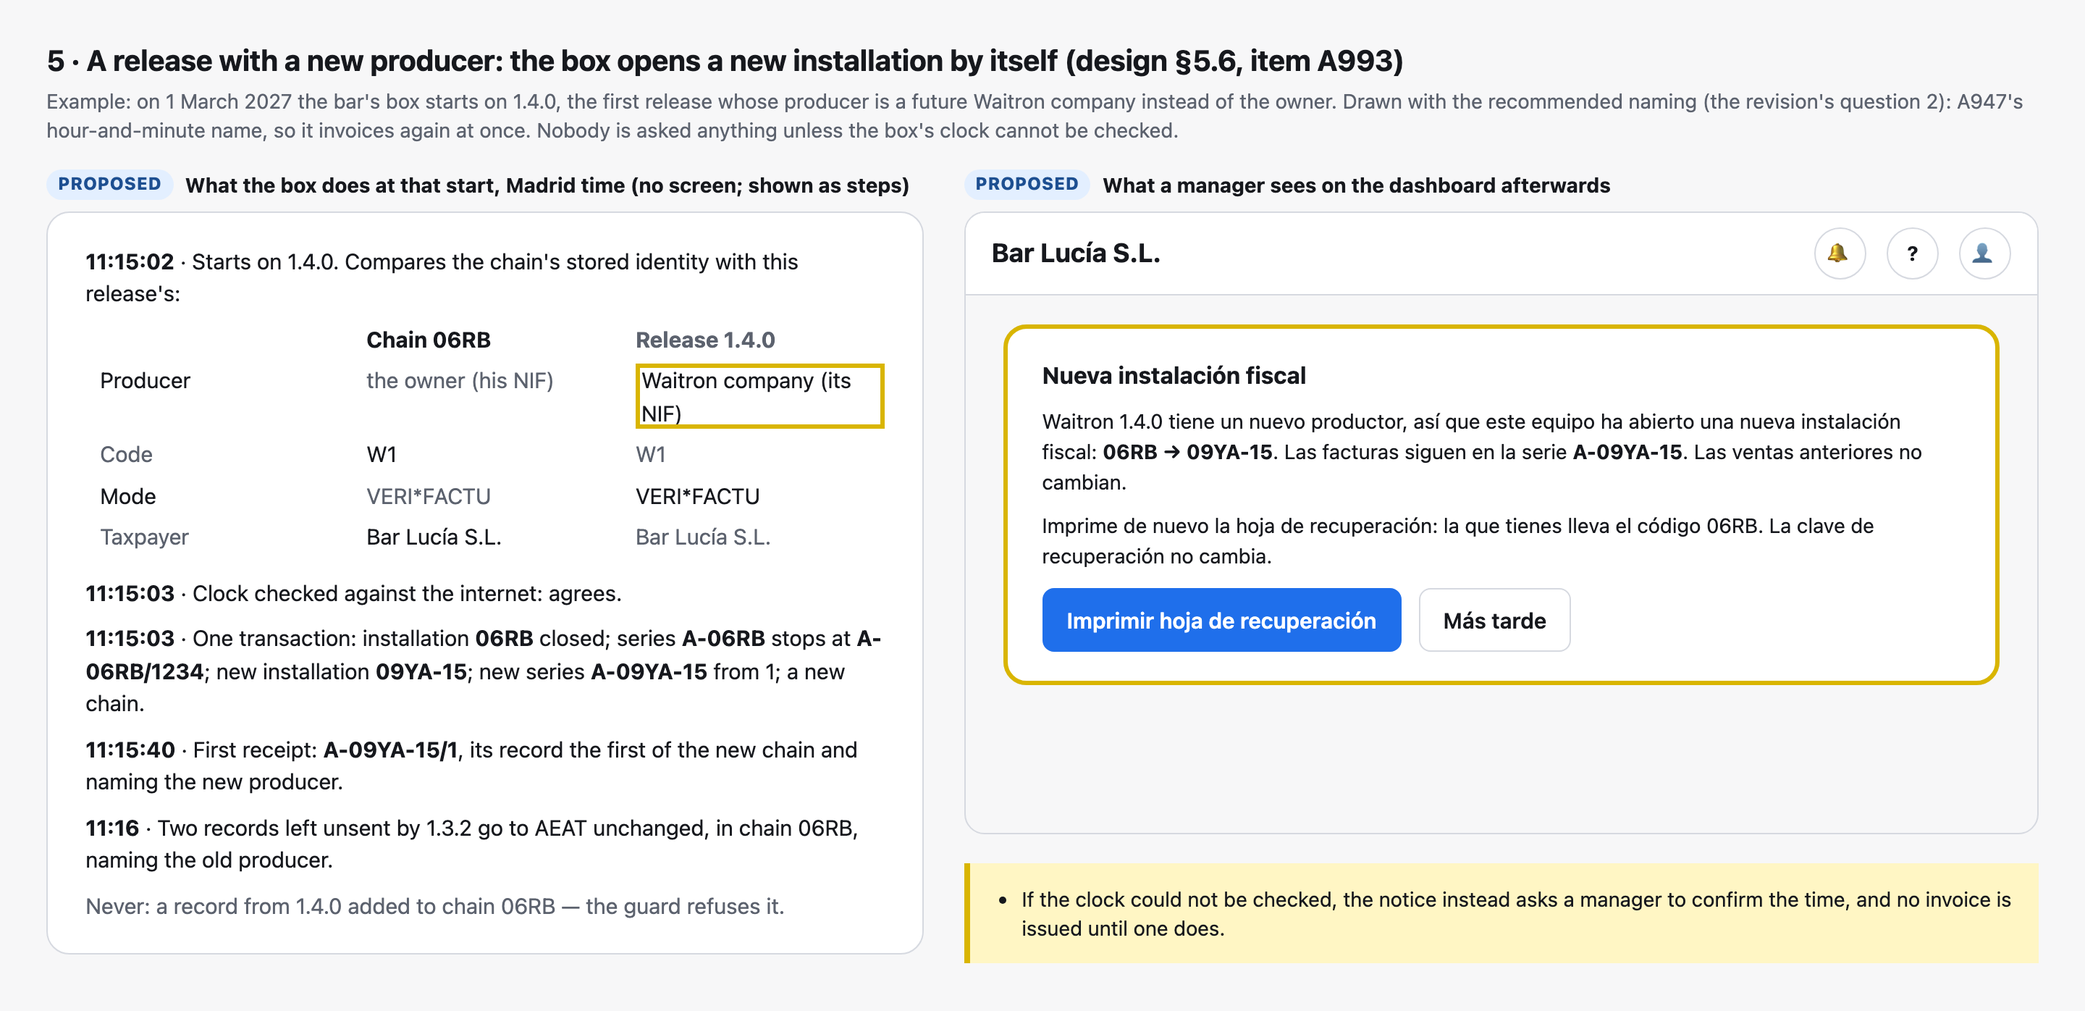
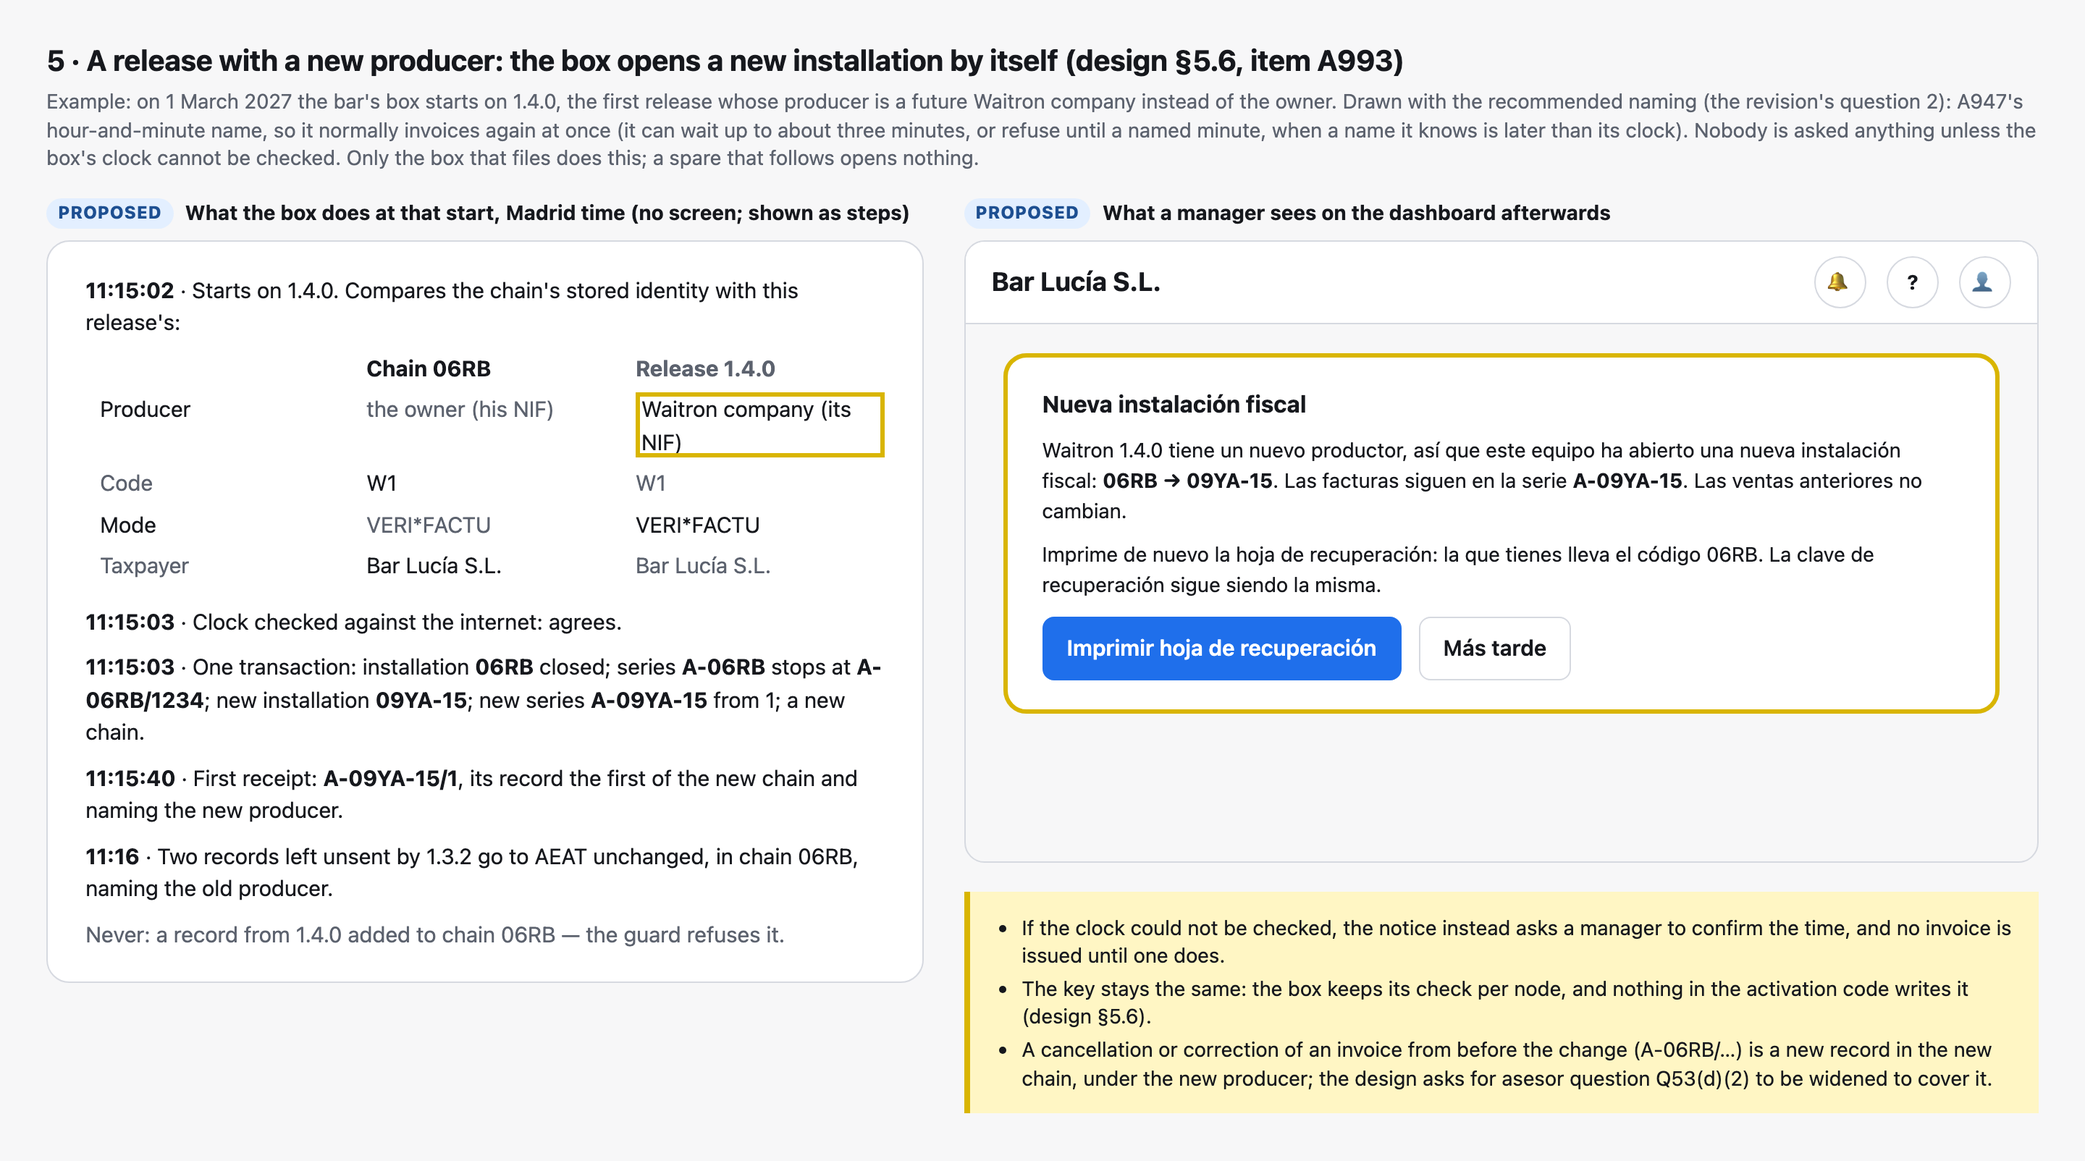
docs: A940/A993 — fix the review's seven findings
- 5.6 names the new identity-change activation: today hour activations
  need a signed-in person's operation (allocation-envelope.ts:299-304,
  :432) and the four-symbol form (:448), so A993 adds an action whose
  authority only the start step can create, with refusing tests for
  every other caller, and amends CLAUDE.md section 5's 'does not mint
  an installation number' sentence in the same change.
- Corrections of invoices issued before an identity change join the
  new chain under the new producer; the design quotes the developer
  FAQ (page 20) and asks for Q53(d)(2) to be widened, no new question.
- The start step runs only on the filing node (singleton-pass.ts:4-15,
  boot.ts:2518-2519); a following spare opens nothing; the 'one at a
  time' rule is about the main boxes of different venues.
- A947's naming can wait up to about three minutes or refuse; said in
  the design, picture 5 and question.txt.
- The recovery key staying the same is traced: its verifier is kept
  per node and no activation file writes it (grep receipts in 5.6).
- Six drifted code citations re-found; the developer FAQ's page 9
  sentence on changing the way of invoicing is cited for the mode.

diff --git a/docs/superpowers/specs/2026-10-21-a940-declaracion-responsable-design.md b/docs/superpowers/specs/2026-10-21-a940-declaracion-responsable-design.md
@@ -39,6 +39,11 @@ identity change (§5.6).
 >   from §4 and §5.4.
 > - **Q4: production boxes run releases only**, as designed in §5.1. No change.
 > - **§10 build order** gains A993; **§11** records the answers; **§12** gains three open points.
+> - **Review fixes, same day:** §5.6 now names the new `identity-change` activation and its
+>   person-less authority, the CLAUDE.md §5 sentence it amends, what happens to corrections of
+>   invoices issued before the change (and the widening it asks of Q53(d)(2)), that only the filing
+>   node runs the step, and A947's possible wait or refusal; the recovery key's sameness is traced;
+>   six drifted code citations in §3, §4, §5.3 and §6 are re-found.
 
 ---
 
@@ -270,7 +275,8 @@ mounted ahead of every mode's gates (`apps/server/src/boot.ts:984-1003`), so it 
 mode and in trading mode. The till has a sheet that shows a box page over the screen
 (`apps/till/src/widgets/guide-sheet.ts`). `packages/fiscal-verifactu` already draws PDFs
 (`pdfkit`, `pdf-lib`, its own font). CI already publishes an image tagged with the version when a
-`v*` tag is pushed (`.github/workflows/ci.yml:2758-2760`).
+`v*` tag is pushed (`.github/workflows/ci.yml:37` triggers on `v*` tags; `:2772` adds the
+version tag).
 
 ## 4. The declaration's text
 
@@ -420,7 +426,7 @@ directed d); the revision asks him to approve the whole.
 - **The functions list is filled in per release and checked route by route.** On main on
   2026-10-21: simplified invoices (F2) are issued; corrective invoices are reached through
   `apps/server/src/cancel-credit.ts`; every full-invoice request is refused
-  (`apps/server/src/till-sale.ts:516`, `apps/server/src/working-order.ts:4180-4191`); and no
+  (`apps/server/src/till-sale.ts:517`, `apps/server/src/working-order.ts:4050-4061`); and no
   route records a cancellation or a substitute invoice (`docs/backlog.md`, fiscal area: "No till screen or
   server route calls `recordVoid` yet", and "no route calls `recordSubstitution`"). So full and
   substitute invoices and cancellations are not listed. A release that turns one on lists it. A
@@ -499,7 +505,7 @@ English.
 - **The rendered copies** — HTML, PDF and plain text — are made once, in the image build, by a
   renderer in `fiscal-verifactu`, and land at a fixed path in the image, `/app/declaration/`,
   beside `/app/third-party/`. The box serves them as opaque files, so `apps/server` never imports
-  `@waitron/fiscal-verifactu` (the composition rule at `packages/composition/src/modules.ts:107-112`).
+  `@waitron/fiscal-verifactu` (the composition rule at `packages/composition/src/modules.ts:121-127`).
   The release job copies the same files out of the published image onto the GitHub Release, so
   the box's PDF and the archive's PDF are the same bytes.
 
@@ -541,8 +547,9 @@ spare box on site) are kept only when the release can do them; d) still describe
 ours the version can call in production (none today; a release that adds one changes d) and has
 the wording checked again); AEAT's FAQ and worked example are re-read for changes; and the
 repository is still public (§7.1). A release that changes the producer or the two-character code
-says so in the runbook's first line: every box opens a new installation at its first start on it
-(§5.6), and the boxes of one taxpayer are upgraded one at a time.
+says so in the runbook's first line: every filing box opens a new installation at its first start
+on it (§5.6), the main boxes of one taxpayer's venues are upgraded one at a time, and each venue's
+spare in the same visit as its main box.
 
 ### 5.5 How a box runs a release
 
@@ -566,7 +573,7 @@ not a new system (developer FAQ §4, p. 9). So the identity a chain is opened un
 | --- | --- | --- |
 | The producer's NIF (or foreign identifier, its type and country) | The running release's `software-identity.ts` (§5.2) | The producer changes, e.g. the owner to a future Waitron company |
 | The two-character code | The same file | Waitron ships a different product |
-| The compliance mode («VERI\*FACTU» today, the only one) | The enabled fiscal module | A venue moves between fiscal policies (the owner, Q2: a new installation) |
+| The compliance mode («VERI\*FACTU» today, the only one) | The enabled fiscal module | A venue moves between fiscal policies (the owner, Q2: a new installation; developer FAQ §3, p. 9: «cuando se produce un cambio de la implementación de la forma de facturar del SIF, realmente se ha cambiado de SIF») |
 | The taxpayer's NIF | The `tenants` row | Never, through the product (below) |
 
 The version is deliberately not in the list.
@@ -579,16 +586,25 @@ box's previous row (`allocation.ts:77-88` today). That is a migration on a fisca
 go-live no data is carried forward (CLAUDE.md §3, the no-backwards-compatibility rule), and a row
 opened before A993, with nothing stored, counts as different from any running identity.
 
-**What every start does**, before the box trades, inside the fiscal module:
+**What every start does**, before the box trades, inside the fiscal module — **only on the node
+that files.** Today filing runs only while a node's role is primary: the drain runs behind
+`singletonPass` (`apps/server/src/boot.ts:2518-2519`), which runs the pass only when
+`node_roles.singleton_role` is `primary` and gives any other node an empty pass
+(`apps/server/src/singleton-pass.ts:4-15`). The start-time step takes the same gate. A
+following spare (A947) that starts on a new release opens nothing and changes nothing: the gate
+keeps it out, it is held dormant with no series of its own until promotion (A947 §2,
+`packages/fiscal-verifactu/src/hour-dormant-standby.ts`), and the main box's rows it follows are
+not its to change. When it is promoted, its activation writes the running release's identity.
 
 - **Same producer, code and mode:** nothing. A679's rule that an ordinary update allocates nothing
   ([A679 design](2026-10-16-a679-hour-coded-series-design.md), "Restore, restart and first Live")
   still holds for every update that keeps the identity.
 - **A different producer or code, or nothing stored:** the box opens a new installation itself, in
-  one transaction, through the activation every other path uses
+  one transaction. The final writes are the ones every activation makes
   (`packages/fiscal-verifactu/src/allocation.ts:432-461`): the old SIF row is revoked; the node's
   chain head is emptied, so the next record is the first of a new chain («PrimerRegistro» = S); the
-  old invoice series are retired and new ones start at 1. The old chain is closed, never
+  old invoice series are retired and new ones start at 1. Getting there is new work (next
+  paragraph). The old chain is closed, never
   rewritten: records already made on it keep the identity they were made under and are sent
   unchanged (W41s's rule, "Retry the original stored fiscal content",
   [W41s design](2026-10-04-fiscal-prevention-and-offline-recovery-design.md) §4), so a backlog the
@@ -607,6 +623,53 @@ opened before A993, with nothing stored, counts as different from any running id
   was changed outside the product. The box opens nothing and refuses to trade, naming the cause on
   the recovery page (proposed code `sif.taxpayer_changed`). **Decision, the conservative one:** a
   person finds out why before anything is filed.
+
+**A new activation action, and why it is the only door without a person.** Today an hour-named
+activation is accepted only through an operation a signed-in person makes: the fiscal module's
+admission refuses `reauthentication_required` unless the operation carries an operator and its
+action is one of `setup`, `restore`, `re-register` or `promote`
+(`packages/fiscal-verifactu/src/allocation-envelope.ts:299-304`), refuses again when the held
+operation has no operator (`:432`), and requires the four-symbol hour form, the code being exactly
+`encodeHourIdentity` of the issue time (`:448`). A993 therefore needs three things, all in its
+slice:
+
+1. **A new action, `identity-change`**, beside the four.
+2. **An authority with no person in it**, which only the start-time step can create, and only when
+   the live SIF row's stored identity differs from the running release's (or has nothing stored).
+   It is made inside the step's own transaction, bound to the node, the old SIF row's id and the
+   running release's version, and used once. No route, operation host, recovery path or tool can
+   ask for one: every other caller that offers `identity-change` is refused, and so is the step
+   itself when the identities match. Each refusing case is proven by deletion (delete the check that
+   the identities differ, or the check that the caller is the start-time step, and its case must
+   fail), beside the case that must still pass: a start under a changed identity activates.
+3. **The new name form** (the naming choice below; with the recommended one, A947's slice 4a teaches
+   the admission the hour-and-minute form).
+
+CLAUDE.md §5 says, in its re-registration rule, "the box does not mint an installation number from
+its clock or a counter". That sentence stops being true, so the same A993 change amends it, to read:
+"…the box does not mint an installation number from its clock or a counter, except at a start that
+finds the running release's identity differs from its chain's (A993), which no person and no other
+caller can trigger." That edit is part of the fiscal pull request the owner reviews.
+
+**What happens to an invoice issued under the old identity.** Its records already made go out
+unchanged, under the old installation and producer: each record stores its own software block
+(`sistemaInformatico: record.SistemaInformatico`, `packages/fiscal-verifactu/src/registro-row.ts:115`)
+and the drain groups and sends rows per SIF row (`partition by r.sif_id`,
+`packages/fiscal-verifactu/src/drain.ts:590`). But anything **new** about such an invoice after the
+change — a cancellation, a corrective invoice, or a record appended after AEAT rejected the
+original — is a new record, and it joins the box's current chain, under the new installation and
+the new producer. AEAT's developer FAQ (p. 20): «la responsabilidad del fabricante de un SIF
+alcanza a los RFs de las facturas emitidas por el SIF que haya certificado, pero no alcanza en modo
+alguno a los RFs correspondientes a facturas emitidas con otro SIF». So after a producer change, the
+new producer would be issuing records about invoices another system issued. Whether that is
+acceptable belongs in the asesor's existing question on the switch; this design asks for Q53(d)(2)
+to be widened, not for a new question, to read: "(2) we read the change of producer as making a new
+system, so every installation then running starts a new installation number and a new chain —
+confirm, and what else it costs (each venue needs its new declaration; anything to notify?), **and
+whether the new system may then record cancellations, corrective invoices and corrections of
+rejected records for invoices the old system issued, or how those should be made**." The watcher
+carries that wording into `asesor-questions.md`; until the asesor answers, A993 builds the
+behaviour above and the release notes of an identity-changing release say so.
 
 **The guard.** Before a record is added to a chain, the record builder compares the chain's stored
 producer, code and mode with the running release's, and refuses on any difference (proposed code
@@ -631,11 +694,15 @@ owner as the revision's second question:
 1. **Recommended: A947's promotion name** — the hour, a hyphen and the minute (`06XV-40`), with
    A947's check against every code the box knows
    ([A947 design](2026-10-21-a947-two-box-failover-design.md) §6.5, its slice 4a). No question and
-   no hour's wait: the box invoices again as soon as it has started. Disclosed limit, as A947
-   discloses for its switches: two of the same taxpayer's boxes changing identity in the same UTC
-   minute, with the same series prefixes, would take the same names. The runbook (§5.4) has an
-   identity-changing release installed one box at a time. It depends on the owner approving A947's
-   revision; today the only venue is the owner's own.
+   no wait for the next hour: normally the box takes the current minute and invoices again as soon
+   as it has started. Not always at once: A947's rules 3 and 4 make it wait, up to about three
+   minutes, when a name it knows is a little later than its clock, and refuse — naming the minute
+   from which it will be allowed — when a known name is more than three minutes ahead; until then
+   the box issues no invoice. Disclosed limit, as A947 discloses for its switches: two of the same
+   taxpayer's venues changing identity in the same UTC minute, with the same series prefixes,
+   would take the same names. The runbook (§5.4) has the main boxes of one taxpayer's venues
+   upgraded one at a time. It depends on the owner approving A947's revision; today the only venue
+   is the owner's own.
 2. A679's four-symbol hour, taking the "I don't know" path: the box invoices nothing until the next
    UTC hour — up to an hour without invoices after the upgrade — and two boxes of one taxpayer
    changing identity in the same hour still collide.
@@ -677,15 +744,20 @@ the identity is not ordinary.
   recovery sheet to be printed again: the sheet prints "only this node's current installation
   code", which the recovery form asks for (A679 design, "Owner PDF decisions, 2026-10-19").
   Reprinting allocates nothing (A679's table: "PDF download, print or key reissue | Allocate
-  nothing"). The recovery key is expected to stay the same: A679 describes it as the node's key,
-  named and bound to the taxpayer and node, not to an installation ("Owner PDF review"). Neither
-  that nor whether an old sheet's code still lets a recovery through was traced in the code; the
-  notice asks for a new sheet either way.
+  nothing"). The recovery key stays the same: its verifier is kept per node
+  (`readBreakGlassVerifier(db, nodeId)`, `packages/db/src/deployment.ts:196`), and
+  `grep -rn setBreakGlassVerifier apps/server/src packages/*/src` finds, outside `packages/db`
+  which defines it, only `apps/server/src/break-glass.ts`, `apps/server/src/recovery-document-api.ts`
+  and `packages/provisioning/src/first-setup-node-key.ts` — none in the activation code
+  (`grep -ci verifier packages/fiscal-verifactu/src/allocation*.ts` answers 0 for every file).
+  Whether an old sheet's printed code still lets a recovery through was not traced; the notice asks
+  for a new sheet either way.
   (Picture 5.)
 - The box keeps the old version's declaration (§7.3).
-- A spare box (A947) follows the new rows. It is upgraded with the main box: a spare promoted while
-  still on the old release would open under the old identity, and its next start on the new
-  release would change it again.
+- A spare box (A947) follows the new rows and, not filing, opens nothing (above). Upgrade it in the
+  same visit as its own venue's main box, before or after: a spare promoted while still on the old
+  release would open under the old identity, and its next start on the new release would change it
+  again. The "one at a time" rule is about the main boxes of different venues, which each file.
 - Going back to an older release across an identity change would open yet another installation;
   the runbook says not to.
 
@@ -722,7 +794,7 @@ instead of its fixed guide title (`apps/till/src/widgets/guide-sheet.ts:89`). (P
 ### 6.3 Handheld and tablet
 
 The More menu (≡) is always drawn on these, because Find bill always lives in it
-(`apps/till/src/till-app.ts:17232-17240`, `apps/till/src/widgets/till-shell.ts:501`). On a tablet
+(`apps/till/src/till-app.ts:17244-17253` always adds `find-bill`, `apps/till/src/widgets/till-shell.ts:501`). On a tablet
 or wide handheld Log out sits in the operator menu, opened from the signed-in person's name; at
 phone width the operator's items, Log out included, are laid out inside More
 (`till-shell.ts:495`, `:868`). So **About Waitron** goes in More, as its very last entry (after the
@@ -733,7 +805,8 @@ width. It opens the same sheet. (Picture 3.)
 
 A kitchen screen shows no menu, only a corner holding the theme and language choosers
 (`till-shell.ts:990-993`). The corner gains a small **ⓘ** button. The lock (PIN) and pairing screens are drawn outside the
-till shell (`apps/till/src/till-app.ts:18226`, `:18371`), so they get their own copy of the sheet
+till shell (`apps/till/src/till-app.ts:18226-18232` for the chooser and pairing (enrol) screens,
+`:18377` for the lock screen), so they get their own copy of the sheet
 for their ⓘ. A kitchen screen cannot invoice, but the queue item asks for every terminal, and a PIN
 screen is where a till sits most of the day. (Picture 3.)
 
@@ -810,6 +883,9 @@ migration (slice 5).
   after slice 1 and checks the submission header names the taxpayer, not the producer.
 - **No record joins a chain opened under another identity** (§5.6, A993): proven by deleting the
   comparison, with the same-identity sale as the case it must still allow.
+- **Only the start-time step activates without a person** (§5.6): every other caller offering
+  `identity-change` is refused, and so is the step when the identities match, each proven by
+  deletion; a following spare's start opens nothing.
 - **A start on a changed identity opens a new installation** (§5.6): a case that starts the box
   under a release with a different producer and checks that the old SIF row is revoked, the old
   series retired, the next record is the first of a new chain and the old chain's unsent record is

diff --git a/docs/backlog.md b/docs/backlog.md
@@ -171,8 +171,11 @@ _Formerly A1 (with A1a–A1e, A231, A231d, A275 and W41s), and the old Track C's
   Each chain stores the producer and compliance mode it was opened under (today `registro_sif`
   stores neither, `packages/fiscal-verifactu/src/schema/sif.ts:20-22`); every start compares them
   with the running release's and, on a difference, opens a new installation, series and chain in
-  one transaction; a guard, proven by deletion, refuses to add a record to a chain opened under
-  another identity. Waits for the owner's choice of how the new installation is named without
+  one transaction, on the filing node only, through a new `identity-change` activation that only
+  that start step can authorise (CLAUDE.md §5's "does not mint an installation number" sentence is
+  amended in the same change); a guard, proven by deletion, refuses to add a record to a chain
+  opened under another identity. Corrections of invoices issued before the change join the new
+  chain; the design asks for asesor Q53(d)(2) to be widened to cover that. Waits for the owner's choice of how the new installation is named without
   A679's "anyone set up a box in the last hour?" question (recommended: A947's hour-and-minute
   name, so A947's slice 4a first). After A940's slice 1; before the first production venue goes
   live. A move between fiscal modules stays a refused start until the first non-Veri\*Factu mode.
